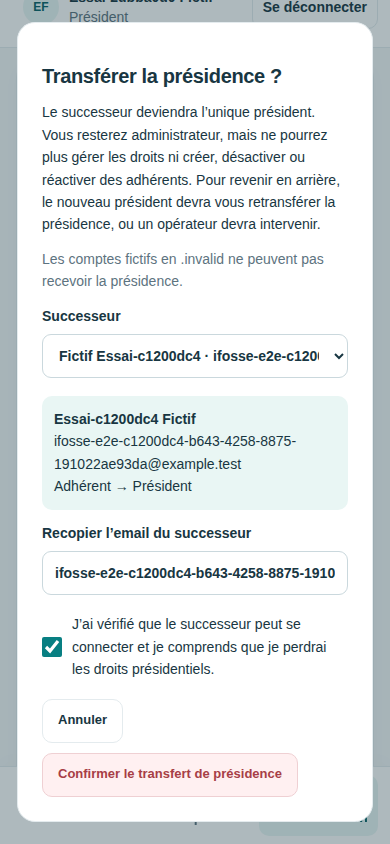
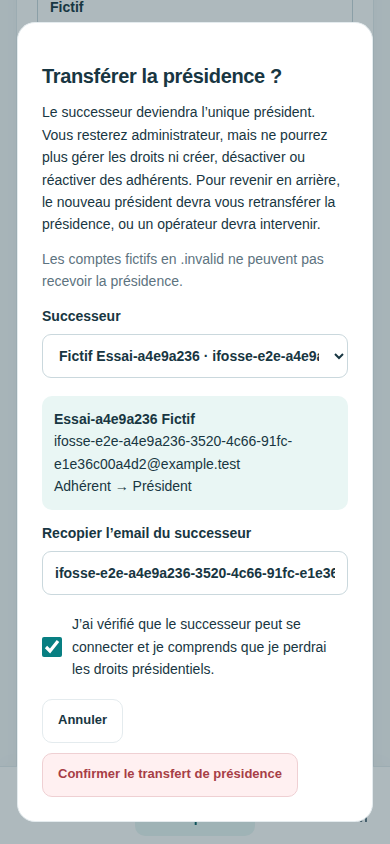
Move exceptional presidency handover to the bottom of own profile

diff --git a/e2e/presidency-transfer.spec.ts b/e2e/presidency-transfer.spec.ts
@@ -20,14 +20,21 @@ test('President deliberately hands over on desktop/mobile; stale choice reconfir
   expect((await old.rpc('set_payment_status',{p_session_id:sessionId,p_member_id:successor.memberId,p_status:'paid'})).error).toBeNull()
   const before=(await old.from('session_participations').select('*').eq('session_id',sessionId)).data
   await page.setViewportSize({width:1440,height:900});await page.getByRole('button',{name:'Administration',exact:true}).click()
-  await page.getByText('Présidence du club · transfert exceptionnel',{exact:true}).click()
+  await expect(page.getByText('Présidence du club · transfert exceptionnel',{exact:true})).not.toBeVisible()
+  await page.getByRole('button',{name:'Mon profil',exact:true}).click()
+  const disclosure=page.getByText('Présidence du club · transfert exceptionnel',{exact:true})
+  await disclosure.scrollIntoViewIfNeeded();await mkdir('test-results/visual-acceptance',{recursive:true})
+  await page.screenshot({path:'test-results/visual-acceptance/presidency-profile-desktop.png'})
+  await page.setViewportSize({width:390,height:844});await disclosure.scrollIntoViewIfNeeded()
+  expect(await page.evaluate(()=>document.documentElement.scrollWidth>innerWidth)).toBe(false)
+  await page.screenshot({path:'test-results/visual-acceptance/presidency-profile-phone.png'})
+  await page.setViewportSize({width:1440,height:900});await disclosure.click()
   const trigger=page.getByRole('button',{name:'Transférer la présidence',exact:true})
   await trigger.focus();await page.keyboard.press('Enter');const dialog=page.getByRole('dialog',{name:'Transférer la présidence ?'})
   await expect(dialog.getByRole('button',{name:'Annuler',exact:true})).toBeFocused();await page.keyboard.press('Escape');await expect(dialog).not.toBeVisible();await expect(trigger).toBeFocused()
-  // A pending member creation must not silently disappear when handing over.
-  await page.getByRole('button',{name:'Ajouter un adhérent',exact:true}).click();await page.locator('.directory').getByLabel('Prénom',{exact:true}).fill('Brouillon fictif')
-  await trigger.click();const unsaved=page.getByRole('dialog',{name:'Quitter sans enregistrer ?'});await expect(unsaved).toBeVisible();await unsaved.getByRole('button',{name:'Rester'}).click();await expect(page.locator('.directory').getByLabel('Prénom',{exact:true})).toHaveValue('Brouillon fictif')
-  await trigger.click();await unsaved.getByRole('button',{name:'Quitter sans enregistrer'}).click();await expect(dialog).toBeVisible();await expect(page.locator('.directory').getByLabel('Prénom',{exact:true})).toHaveCount(0)
+  // Moving presidency never discards unsaved personal profile edits.
+  await page.locator('.profile-card').getByLabel('Téléphone',{exact:true}).fill('0600000000')
+  await trigger.click();await expect(dialog).toBeVisible()
   await expect(dialog.getByLabel('Successeur').locator('option')).toHaveCount(49)
   await expect(dialog.getByLabel('Successeur').locator(`option[value="${president.memberId}"]`)).toHaveCount(0);await expect(dialog.getByLabel('Successeur').locator(`option[value="${inactive.memberId}"]`)).toHaveCount(0)
   await dialog.getByLabel('Successeur').selectOption(successor.memberId)
@@ -46,10 +53,10 @@ test('President deliberately hands over on desktop/mobile; stale choice reconfir
   expect(await dialog.locator('button,input:not([type=checkbox]),select').evaluateAll(nodes=>nodes.filter(n=>n.getBoundingClientRect().height<44).length)).toBe(0)
   await page.screenshot({path:'test-results/visual-acceptance/presidency-phone.png'})
   await confirm.click();await expect(dialog).toHaveCount(0);await expect(page.locator('.auth-toolbar .identity-role')).toHaveText('Administrateur');await expect(trigger).toHaveCount(0);await expect(page.getByRole('button',{name:'Ajouter un adhérent',exact:true})).toHaveCount(0)
-  await expect(page.getByRole('status').filter({hasText:'Présidence transférée'})).toBeVisible();await expect(page.getByRole('combobox',{name:'Accès',exact:true})).toBeFocused()
+  await expect(page.getByRole('status').filter({hasText:'Présidence transférée'})).toBeVisible();await expect(page.getByRole('button',{name:'Enregistrer mon profil',exact:true})).toBeFocused();await expect(page.locator('.profile-card').getByLabel('Téléphone',{exact:true})).toHaveValue('0600000000')
   expect((await old.rpc('set_member_role',{p_member_id:people[2].memberId,p_role:'admin'})).error?.code).toBe('42501')
   expect((await old.rpc('transfer_presidency',{p_member_id:people[2].memberId})).error?.code).toBe('42501')
-  await successorPage.evaluate(()=>window.dispatchEvent(new Event('focus')));await expect(successorPage.locator('.auth-toolbar .identity-role')).toHaveText('Président');await successorPage.getByRole('button',{name:'Administration',exact:true}).click();await successorPage.getByText('Présidence du club · transfert exceptionnel',{exact:true}).click();await expect(successorPage.getByRole('button',{name:'Transférer la présidence',exact:true})).toBeVisible()
+  await successorPage.evaluate(()=>window.dispatchEvent(new Event('focus')));await expect(successorPage.locator('.auth-toolbar .identity-role')).toHaveText('Président');await successorPage.getByRole('button',{name:'Mon profil',exact:true}).click();await successorPage.getByText('Présidence du club · transfert exceptionnel',{exact:true}).click();await expect(successorPage.getByRole('button',{name:'Transférer la présidence',exact:true})).toBeVisible()
   expect((await next.rpc('set_member_role',{p_member_id:people[2].memberId,p_role:'admin'})).error).toBeNull()
   expect((await old.from('session_participations').select('*').eq('session_id',sessionId)).data).toEqual(before)
   expect((await old.from('selection_publications').select('id').eq('session_id',sessionId)).data).toHaveLength(1)

diff --git a/src/features/profiles/Directory.tsx b/src/features/profiles/Directory.tsx
@@ -6,13 +6,12 @@ import { caciLabels, caciStatus, formatDate, todayParis } from '../../lib/dates'
 import { protectScope } from '../../lib/navigation'
 import { CaciEditor } from './Profile'
 import { MemberCreate } from './MemberCreate'
-import { PresidencyTransfer } from './PresidencyTransfer'
 import { PageHeading } from '../../components/Visual'
 import { useSharedRefresh } from '../../lib/useSharedRefresh'
 
 const roleLabels = { member: 'Adhérent', admin: 'Administrateur', president: 'Président' }
 type Action = { member: Member; kind: 'deactivate' | 'reactivate' | 'grant' | 'revoke' }
-export function Directory({ client, member: current, refreshMember }: { client: SupabaseClient<Database>; member: Member; refreshMember:()=>Promise<void> }) {
+export function Directory({ client, member: current }: { client: SupabaseClient<Database>; member: Member }) {
   const [members, setMembers] = useState<Member[]>([])
   const [search, setSearch] = useState('')
   const [role, setRole] = useState('all')
@@ -54,7 +53,6 @@ export function Directory({ client, member: current, refreshMember }: { client: 
   const visible = members.filter(member => `${member.first_name} ${member.last_name} ${member.email}`.toLocaleLowerCase('fr').includes(search.trim().toLocaleLowerCase('fr')) && (role === 'all' || member.role === role) && (caci === 'all' || caciStatus(member.caci_expiry_date) === caci) && (active === 'all' || (member.disabled_at ? 'inactive' : 'active') === active))
   return <section className="card directory"><PageHeading eyebrow="Administration" title="Gestion des adhérents" actions={president && <button className="primary" aria-expanded={create} onClick={() => {protectScope('member-create',()=>{setCreate(!create);setMessage('')})}}>Ajouter un adhérent</button>}><p>Un annuaire partagé pour les informations du club{president ? ', les droits et les accès.' : '.'}</p></PageHeading>
     {create && president && <MemberCreate client={client} onCancel={() => { setCreate(false); document.querySelector<HTMLButtonElement>('.directory .page-heading button')?.focus() }} onSaved={async () => { await load(); setCreate(false); setSearch(''); setRole('all'); setCaci('all'); setActive('active'); setMessage('Adhérent créé. Il peut demander son lien de connexion.'); document.querySelector<HTMLButtonElement>('.directory .page-heading button')?.focus() }} />}
-    {president && <PresidencyTransfer client={client} current={current} members={members} onReload={load} onStart={start=>protectScope('member-create',()=>{setCreate(false);start()})} onAccessChanged={async()=>{setError('Vérifiez les rôles dans l’annuaire avant toute nouvelle tentative de transfert.');await refreshMember()}} onTransferred={async successor=>{setMessage(`Présidence transférée à ${successor.first_name} ${successor.last_name}. Vous êtes désormais administrateur.`);await refreshMember();await load();accessFilter.current?.focus()}} />}
     <div className="directory-filters"><label className="directory-search">Rechercher un adhérent<input type="search" placeholder="Nom ou email" value={search} onChange={event => setSearch(event.target.value)} /></label><label>Rôle<select value={role} onChange={event => setRole(event.target.value)}><option value="all">Tous les rôles</option>{Object.entries(roleLabels).map(([value, label]) => <option key={value} value={value}>{label}</option>)}</select></label><label>CACI<select value={caci} onChange={event => setCaci(event.target.value)}><option value="all">Tous les CACI</option>{Object.entries(caciLabels).map(([value, label]) => <option key={value} value={value}>{label}</option>)}</select></label><label className="directory-access">Accès<select ref={accessFilter} value={active} onChange={event => setActive(event.target.value)}><option value="active">Actifs</option><option value="inactive">Inactifs</option><option value="all">Tous les accès</option></select></label></div>
     <div className="directory-results"><p className="muted" role="status">{visible.length} adhérent{visible.length !== 1 && 's'} affiché{visible.length !== 1 && 's'}{message && ` · ${message}`}</p><button className="secondary" type="button" onClick={resetFilters}>Réinitialiser les filtres</button></div>{error && !action && <p role="alert">{error}</p>}
     {!visible.length && <p className="empty-state">Aucun adhérent ne correspond à ces critères.</p>}

diff --git a/src/features/profiles/Profile.tsx b/src/features/profiles/Profile.tsx
@@ -7,6 +7,7 @@ import { useUnsavedChanges } from '../../lib/navigation'
 import { businessError } from '../../lib/businessErrors'
 import { levelSuggestions } from '../../lib/levels'
 import { PageHeading } from '../../components/Visual'
+import { ProfilePresidency } from './ProfilePresidency'
 import { caciLabels, caciStatus, formatDate } from '../../lib/dates'
 
 export function CaciEditor({ client, member, onRefresh, onSaved }: { client: SupabaseClient<Database>; member: Member; onRefresh: () => Promise<void>; onSaved?: (date: string | null) => Promise<void> }) {
@@ -45,6 +46,7 @@ export function Profile({ client, member, refresh }: { client: SupabaseClient<Da
   const baseline = useRef(JSON.stringify(values))
   const guard = useUnsavedChanges(JSON.stringify(values) !== baseline.current)
   const carDefaultsDirty = useRef(false)
+  const saveButton = useRef<HTMLButtonElement>(null)
   useEffect(() => {
     if (!carDefaultsDirty.current) setValues(values => { const car={has_usual_car:member.has_usual_car,usual_passenger_seats:member.usual_passenger_seats || 3,usual_meeting_point:member.usual_meeting_point};baseline.current=JSON.stringify({...JSON.parse(baseline.current),...car});return {...values,...car} })
   }, [member.has_usual_car, member.usual_passenger_seats, member.usual_meeting_point])
@@ -63,8 +65,9 @@ export function Profile({ client, member, refresh }: { client: SupabaseClient<Da
       <fieldset className="usual-car"><legend>Ma voiture habituelle</legend><p className="muted">Habitudes facultatives.</p><p id="usual-car-help">Ces valeurs préremplissent vos futures propositions pour une séance. Elles ne créent aucune offre automatiquement. L’heure de départ et la note se renseignent pour chaque séance.</p>
       <label className="check"><input type="checkbox" aria-describedby="usual-car-help" checked={values.has_usual_car} onChange={event => { carDefaultsDirty.current = true; setValues({ ...values, has_usual_car: event.target.checked }) }} />J’ai habituellement une voiture disponible</label>
       {values.has_usual_car && <><p id="usual-seats-help">Les places passagers ne comprennent pas le conducteur.</p><div className="form-grid"><label>Places passagers habituelles<input aria-describedby="usual-seats-help" type="number" min={1} max={8} required value={values.usual_passenger_seats} onChange={event => { carDefaultsDirty.current = true; setValues({ ...values, usual_passenger_seats: Number(event.target.value) }) }} /></label><label>Point de rendez-vous habituel <span className="field-hint">(facultatif)</span><input aria-label="Point de rendez-vous habituel" maxLength={200} value={values.usual_meeting_point} onChange={event => { carDefaultsDirty.current = true; setValues({ ...values, usual_meeting_point: event.target.value }) }} /></label></div></>}
-      </fieldset><button disabled={busy}>Enregistrer mon profil</button>{message && <p id={errorId} role={failed?'alert':'status'}>{message}</p>}
+      </fieldset><button ref={saveButton} type="submit" disabled={busy}>Enregistrer mon profil</button>{message && <p id={errorId} role={failed?'alert':'status'}>{message}</p>}
     </form>
     {member.role !== 'member' && <div className="mt"><h3>Mettre à jour mon CACI</h3><CaciEditor client={client} member={member} onRefresh={refresh} /></div>}
+    {member.role === 'president' && <ProfilePresidency client={client} member={member} refresh={refresh} onTransferred={async successor=>{setFailed(false);setMessage(`Présidence transférée à ${successor.first_name} ${successor.last_name}. Vous êtes désormais administrateur.`);await refresh();saveButton.current?.focus()}} />}
   </section>
 }

diff --git a/src/features/profiles/ProfilePresidency.tsx b/src/features/profiles/ProfilePresidency.tsx
@@ -1,0 +1,28 @@
+import { useCallback, useRef, useState } from 'react'
+import type { SupabaseClient } from '@supabase/supabase-js'
+import type { Database } from '../../lib/database.types'
+import type { Member } from '../auth/AuthGate'
+import { useSharedRefresh } from '../../lib/useSharedRefresh'
+import { PresidencyTransfer } from './PresidencyTransfer'
+
+// Mounted only on the President's own profile; existing RLS still authorizes
+// every directory read. Keep the displayed successor snapshot current.
+export function ProfilePresidency({client,member,refresh,onTransferred}:{client:SupabaseClient<Database>;member:Member;refresh:()=>Promise<void>;onTransferred:(successor:Member)=>Promise<void>}) {
+  const [members,setMembers]=useState<Member[]>([])
+  const [error,setError]=useState('')
+  const sequence=useRef(0)
+  const load=useCallback(async()=>{
+    const request=++sequence.current
+    try {
+      const result=await client.from('members').select('*').order('last_name')
+      if(request!==sequence.current)return
+      if(result.error){setError('Le choix du successeur est indisponible. Réessayez.');return}
+      setMembers(result.data ?? []);setError('')
+    }catch{if(request===sequence.current)setError('Le choix du successeur est indisponible. Réessayez.')}
+  },[client])
+  useSharedRefresh(load)
+  return <div className="mt">
+    {error && <p role="alert">{error}</p>}
+    <PresidencyTransfer client={client} current={member} members={members} onReload={load} onStart={start=>start()} onAccessChanged={async()=>{setError('Vérifiez votre rôle avant toute nouvelle tentative de transfert.');await refresh()}} onTransferred={onTransferred} />
+  </div>
+}

diff --git a/src/features/profiles/Profile.test.tsx b/src/features/profiles/Profile.test.tsx
@@ -46,3 +46,18 @@ it('attaches a known name validation error and preserves all other input',async(
  const alert=screen.getByRole('alert');expect(field('Prénom').getAttribute('aria-describedby')).toBe(alert.id);expect(field('Prénom').getAttribute('aria-invalid')).toBe('true')
  expect(field('Téléphone').value).toBe('0600000000');expect(rpc).not.toHaveBeenCalled()
 })
+
+it('places the collapsed handover last in the President profile and removes it for Admin/Member',async()=>{
+ const query={select:()=>query,order:vi.fn(async()=>({data:[],error:null}))}
+ const privileged={from:()=>query} as unknown as SupabaseClient<Database>
+ const view=render(<Profile client={privileged} member={{...initial,role:'president'}} refresh={async()=>{}} />)
+ await waitFor(()=>expect(query.order).toHaveBeenCalled())
+ const section=screen.getByText('Présidence du club · transfert exceptionnel').closest('details')!
+ expect(section.open).toBe(false)
+ expect(section.closest('.profile-card')!.lastElementChild!.contains(section)).toBe(true)
+ expect(section.compareDocumentPosition(screen.getByText('Mettre à jour mon CACI')) & Node.DOCUMENT_POSITION_PRECEDING).toBeTruthy()
+ view.rerender(<Profile client={privileged} member={{...initial,role:'admin'}} refresh={async()=>{}} />)
+ expect(screen.queryByText('Présidence du club · transfert exceptionnel')).toBeNull()
+ view.rerender(<Profile client={privileged} member={initial} refresh={async()=>{}} />)
+ expect(screen.queryByText('Présidence du club · transfert exceptionnel')).toBeNull()
+})

diff --git a/src/features/profiles/Directory.test.tsx b/src/features/profiles/Directory.test.tsx
@@ -14,7 +14,7 @@ function setup(role: Member['role'] = 'admin') {
   const query = { select: () => query, order: vi.fn(async () => ({ data: people, error: null })) }
   const invoke = vi.fn(async () => ({ data: { member_id: 'new-member' }, error: null }))
   const client = { from: () => query, functions: { invoke }, rpc: vi.fn(async () => ({ error: null })) } as unknown as SupabaseClient<Database>
-  render(<Directory client={client} member={member('Moi', role)} refreshMember={async()=>{}} />)
+  render(<Directory client={client} member={member('Moi', role)} />)
   return { client, invoke }
 }
 describe('unified member management', () => {
@@ -45,7 +45,7 @@ describe('unified member management', () => {
     expect(screen.getAllByText(/Gérer les droits et l’accès/)).toHaveLength(2)
     fireEvent.click(screen.getByRole('button', { name: 'Ajouter un adhérent' }))
     expect(screen.getByLabelText('Prénom')).toBeTruthy()
-    expect(screen.getByText('Présidence du club · transfert exceptionnel')).toBeTruthy()
+    expect(screen.queryByText('Présidence du club · transfert exceptionnel')).toBeNull()
     expect(screen.queryByLabelText('Mot de passe')).toBeNull()
   })
   it('requires confirmation, keeps a refused lifecycle dialog open and never changes the row', async () => {

diff --git a/src/App.tsx b/src/App.tsx
@@ -35,7 +35,7 @@ function MemberApp({ client, member, refresh }: { client: SupabaseClient<Databas
     <div className="app-content">
       <div hidden={active !== 'sessions'}><Sessions client={client} member={member} refreshMember={refresh} route={active === 'sessions' ? route : allowedRoute(lastSessionRoute,member.role !== 'member')} onNavigate={navigateRoute} /></div>
       <div hidden={active !== 'profile'}><Profile client={client} member={member} refresh={refresh} /></div>
-      {member.role !== 'member' && <div hidden={active !== 'admin'}><Directory client={client} member={member} refreshMember={refresh} /></div>}
+      {member.role !== 'member' && <div hidden={active !== 'admin'}><Directory client={client} member={member} /></div>}
       <footer className="app-footer">APSAP · Les fosses, simplement.</footer>
     </div>
   </div>

diff --git a/docs/decisions.md b/docs/decisions.md
@@ -300,6 +300,6 @@ Suspension is `members.disabled_at`, enforced both by current-member RLS/RPC aut
 
 **Decision (demande explicite du propriétaire) :** le président courant peut transférer la présidence à un autre adhérent ou admin actif disposant d’une identité Auth confirmée et utilisable. L’ancien président devient administrateur, conformément à la RPC existante ; l’unicité de la présidence est conservée. Ce parcours dédié ne permet pas de retirer simplement le rôle depuis l’éditeur ordinaire.
 
-L’interface distingue cette action exceptionnelle : identité du successeur, avertissement sur les droits perdus, email à recopier et reconnaissance explicite avant confirmation. Annuler/Escape ne fait rien. Une fiche modifiée demande actualisation/reconfirmation. Le serveur réautorise après verrou, vérifie disponibilité et identité, effectue les deux changements et leur audit atomiquement. Le retour nécessite un nouveau transfert par le nouveau président ou la récupération opérateur existante. Pas de nouveaux mots de passe, emails, signup ou secrets frontend.
+L’interface place cette action exceptionnelle en bas de Mon profil du président, dans une section dépliable : identité du successeur, avertissement sur les droits perdus, email à recopier et reconnaissance explicite avant confirmation. Annuler/Escape ne fait rien. Une fiche modifiée demande actualisation/reconfirmation. Le serveur réautorise après verrou, vérifie disponibilité et identité, effectue les deux changements et leur audit atomiquement. Le retour nécessite un nouveau transfert par le nouveau président ou la récupération opérateur existante. Pas de nouveaux mots de passe, emails, signup ou secrets frontend.
 
 Précaution de transfert : les adresses fictives en `.invalid` sont exclues des choix et refusées par les deux RPC ; aucun marqueur ou enregistrement seed n’est modifié. La confirmation demande d’avoir vérifié que le successeur peut se connecter avec son lien habituel. Ce contrôle humain ne prétend pas garantir la délivrabilité de tout email. `.invalid` est réservé aux noms volontairement invalides ([RFC 2606](https://www.rfc-editor.org/rfc/rfc2606#section-2)). Les fixtures locales `example.test` restent utilisables via Mailpit ; elles ne doivent pas être utilisées comme successeurs réels hébergés.

diff --git a/docs/specs.md b/docs/specs.md
@@ -475,7 +475,7 @@ Abandonner un brouillon sélection/palanquées ouvre une confirmation accessible
 
 ### Transfert de présidence (D029)
 
-Administration présente une section distincte « Présidence du club » au président seulement. Le choix affiche nom/email ; confirmer nécessite de recopier l’email du successeur et reconnaître la perte des droits présidentiels. La création en cours demande d’abord confirmation d’abandon. Le successeur ne peut être soi-même, suspendu, sans compte Auth, banni, supprimé, non confirmé ou lié à une adresse Auth différente. CACI/niveau ne constituent pas une condition de gouvernance.
+Le bas du profil personnel présente une section dépliable distincte « Présidence du club » au président seulement. Le choix affiche nom/email ; confirmer nécessite de recopier l’email du successeur et reconnaître la perte des droits présidentiels. Les modifications personnelles non enregistrées restent conservées pendant le transfert. Le successeur ne peut être soi-même, suspendu, sans compte Auth, banni, supprimé, non confirmé ou lié à une adresse Auth différente. CACI/niveau ne constituent pas une condition de gouvernance.
 
 La fiche affichée est figée jusqu’à confirmation ; toute modification impose un choix actualisé et une nouvelle confirmation. Une perte de droits ou un résultat réseau ambigu impose de réactualiser l’accès avant toute nouvelle tentative. Le transfert atomique est audité, laisse exactement un président et conserve toutes les données métier/seed. Le profil de l’ancien président est réactualisé immédiatement ; le nouveau rôle est effectif côté serveur même avec les anciens jetons, et les autres appareils utilisent le rafraîchissement existant. Annuler/Escape ne change rien. La récupération opérateur reste distincte.
 

diff --git a/docs/reviews/presidency-transfer/README.md b/docs/reviews/presidency-transfer/README.md
@@ -9,4 +9,9 @@ Les captures sont prises après suppression du fragment Auth, sans token, donné
 
 Les comptes fictifs `.invalid` sont exclus et refusés par le serveur ; la confirmation demande d’avoir vérifié que le successeur peut se connecter.
 
-Les tests vérifient le brouillon de création préservé/abandonné explicitement, la reconfirmation après modification réelle du CACI, les rôles réactualisés sans reconnexion, les anciens jetons privés de droits présidentiels, les données métier conservées, le double transfert et la suspension concurrents. Le serveur est validé sur la pile locale isolée seulement ; la migration `20261008110000_presidency_transfer.sql` doit être appliquée en staging avant recette hébergée. Aucun projet hébergé n’est modifié par cette validation.
+Le transfert est accessible uniquement en bas de Mon profil du président, dans une section repliée. Il est absent de l’Administration.
+
+- [Positionnement ordinateur](profile-desktop.png)
+- [Positionnement téléphone](profile-phone.png)
+
+Les tests vérifient les modifications personnelles non enregistrées conservées après le transfert, la reconfirmation après modification réelle du CACI, les rôles réactualisés sans reconnexion, les anciens jetons privés de droits présidentiels, les données métier conservées, le double transfert et la suspension concurrents. Le serveur est validé sur la pile locale isolée seulement ; la migration `20261008110000_presidency_transfer.sql` doit être appliquée en staging avant recette hébergée. Aucun projet hébergé n’est modifié par cette validation.

diff --git a/docs/member-management.md b/docs/member-management.md
@@ -55,7 +55,7 @@ Le hook local est déclaré dans `supabase/config.toml`; redémarrer la stack ap
 
 ## Transférer la présidence
 
-Dans **Administration → Présidence du club · transfert exceptionnel**, déplier la section dédiée, puis le président clique sur le bouton rouge **Transférer la présidence**. Choisir un autre adhérent actif, vérifier son nom et son email, recopier cet email et cocher la reconnaissance des droits perdus. Une création non enregistrée doit d’abord être conservée ou explicitement abandonnée. Annuler/Escape ne modifie rien et rend le focus au bouton.
+Dans **Mon profil (en bas de page) → Présidence du club · transfert exceptionnel**, déplier la section dédiée, puis le président clique sur le bouton rouge **Transférer la présidence**. Choisir un autre adhérent actif, vérifier son nom et son email, recopier cet email et cocher la reconnaissance des droits perdus. Les modifications personnelles non enregistrées restent conservées pendant le transfert. Annuler/Escape ne modifie rien et rend le focus au bouton.
 
 Après confirmation, le successeur est l’unique président et l’ancien président reste administrateur : il conserve les fonctions opérationnelles mais perd création, suspension/réactivation et gestion des droits. Le serveur applique immédiatement ces règles, sans déconnexion ni nouveau magic link. Pour revenir en arrière, le nouveau président peut retransférer ; `npm run president:manage -- recover …` reste le recours opérateur documenté. Aucun email n’est envoyé par le transfert.
 

diff --git a/docs/operator-guide.md b/docs/operator-guide.md
@@ -158,4 +158,4 @@ La migration `20261008070000_attendance_batch.sql` doit être appliquée au proj
 
 #### Transfert de présidence depuis l’interface
 
-Le président dispose d’un parcours distinct dans Administration : successeur actif, nom/email à vérifier, email à recopier, droits perdus à reconnaître, puis confirmation. L’ancien président reste admin. Une fiche modifiée demande actualisation/reconfirmation ; un résultat réseau ambigu demande de vérifier les rôles. Retour possible par le nouveau président ou récupération opérateur existante. Appliquer `20261008110000_presidency_transfer.sql` en staging avant recette ; aucune modification hébergée n’est réalisée par la validation locale. [Parcours et protections](member-management.md#transférer-la-présidence).
+Le président dispose d’un parcours distinct en bas de Mon profil : successeur actif, nom/email à vérifier, email à recopier, droits perdus à reconnaître, puis confirmation. L’ancien président reste admin. Une fiche modifiée demande actualisation/reconfirmation ; un résultat réseau ambigu demande de vérifier les rôles. Retour possible par le nouveau président ou récupération opérateur existante. Appliquer `20261008110000_presidency_transfer.sql` en staging avant recette ; aucune modification hébergée n’est réalisée par la validation locale. [Parcours et protections](member-management.md#transférer-la-présidence).
